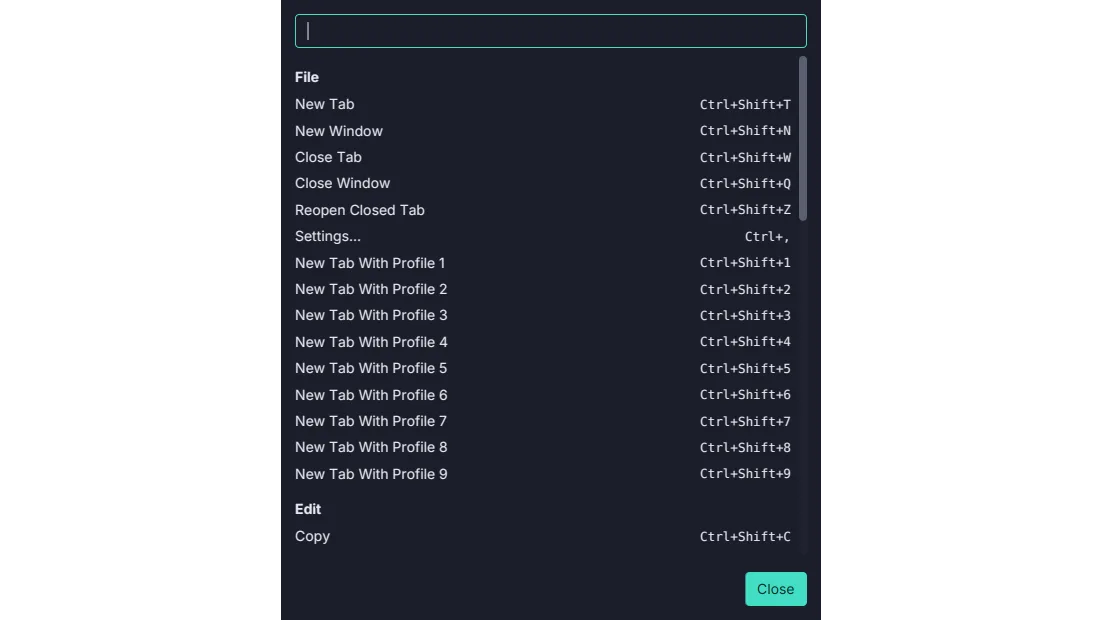
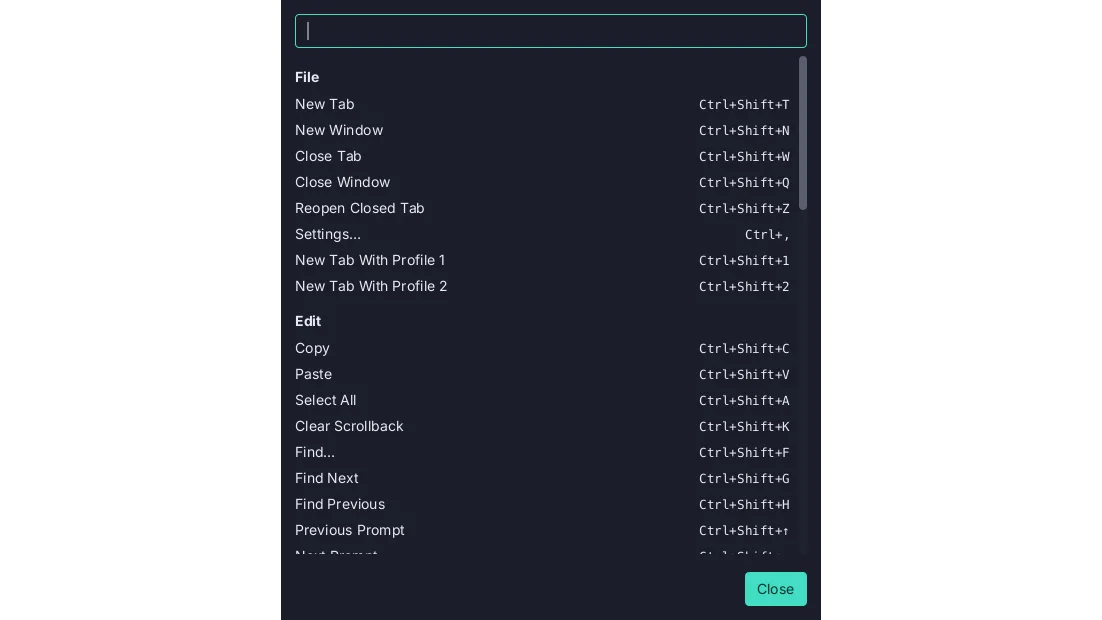
Screenshots from a v0.13.0 build, captured headless
All fourteen retaken from the release tag: the padding around the text,
hollow cursors in the panes without the keyboard, the palette on
Ctrl+Shift+P, the right-click menu with Command Palette and About, the
log at v0.13.0, and the Settings card on the Terminal page with its new
Padding row. Same scratch config, prompt and sizes as before.

Captured with JavaFX's headless platform, so no window opened on the
desktop; the README says what that changes.

diff --git a/README.md b/README.md
@@ -55,6 +55,15 @@ section only renders when it exists. Termina's capture harness makes them:
 options. Capture from a build of the release tag, run with a scratch `--config-dir`, and in a
 directory with nothing private in it.
 
+The captures can run headless, with no window on anyone's desktop: JavaFX 27's own headless
+platform, `-Dglass.platform=Headless -Dprism.order=sw`, with `DISPLAY` unset. Three things differ
+from a desktop run. Its screen is a fixed 1000×1000 and Termina clamps the window to the screen, so
+a larger shot needs the stage resized after it opens. A popup (a context menu, the profile list)
+is photographed on its own, and its transparent margin comes out white unless its root is
+snapshotted on a transparent fill; composite it onto the window at the position it reports. And
+the platform cannot draw a title bar, so Settings → Appearance says so on the title-bar row: take
+that page on a desktop, or show another.
+
 ## Themes
 
 The site's palettes are the app's four themes (`com.termina.ui.Theme`), so the picker in the header
